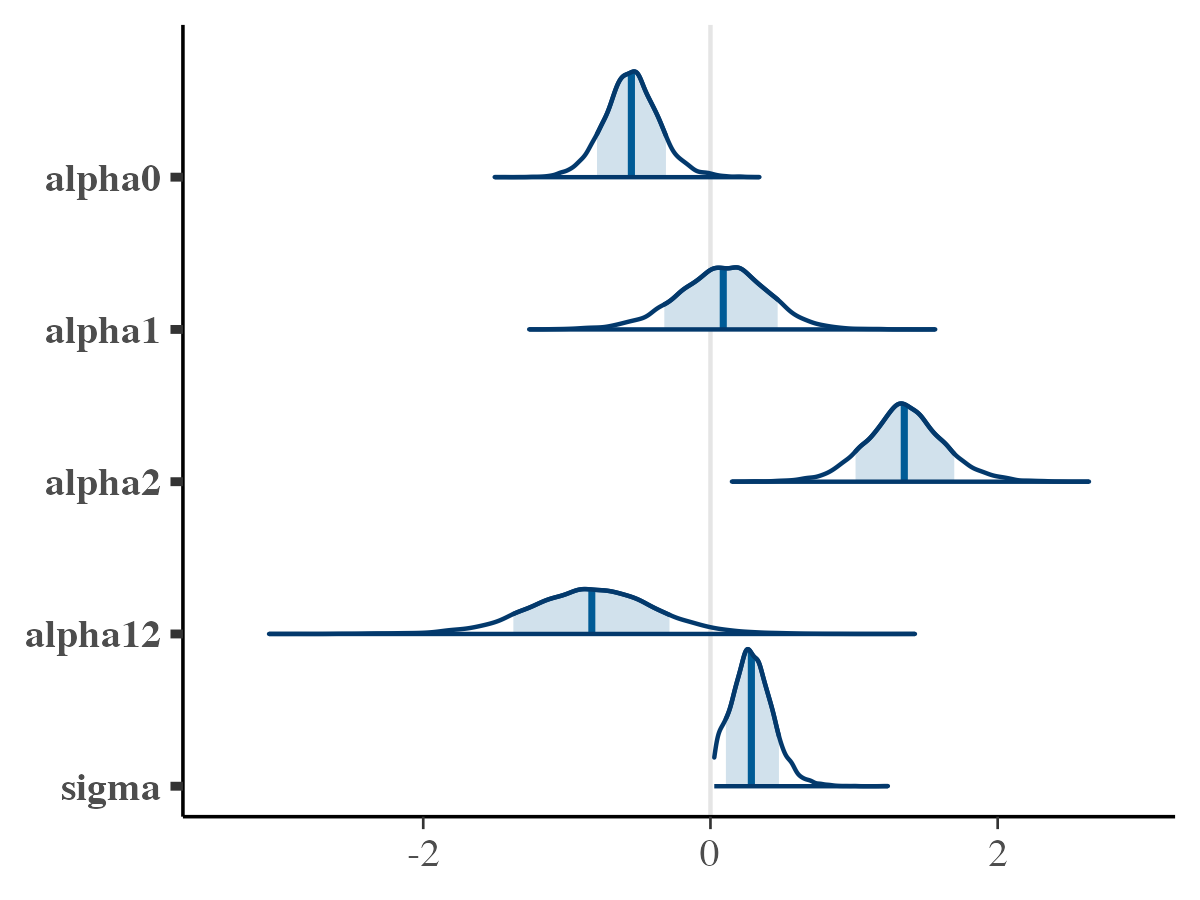
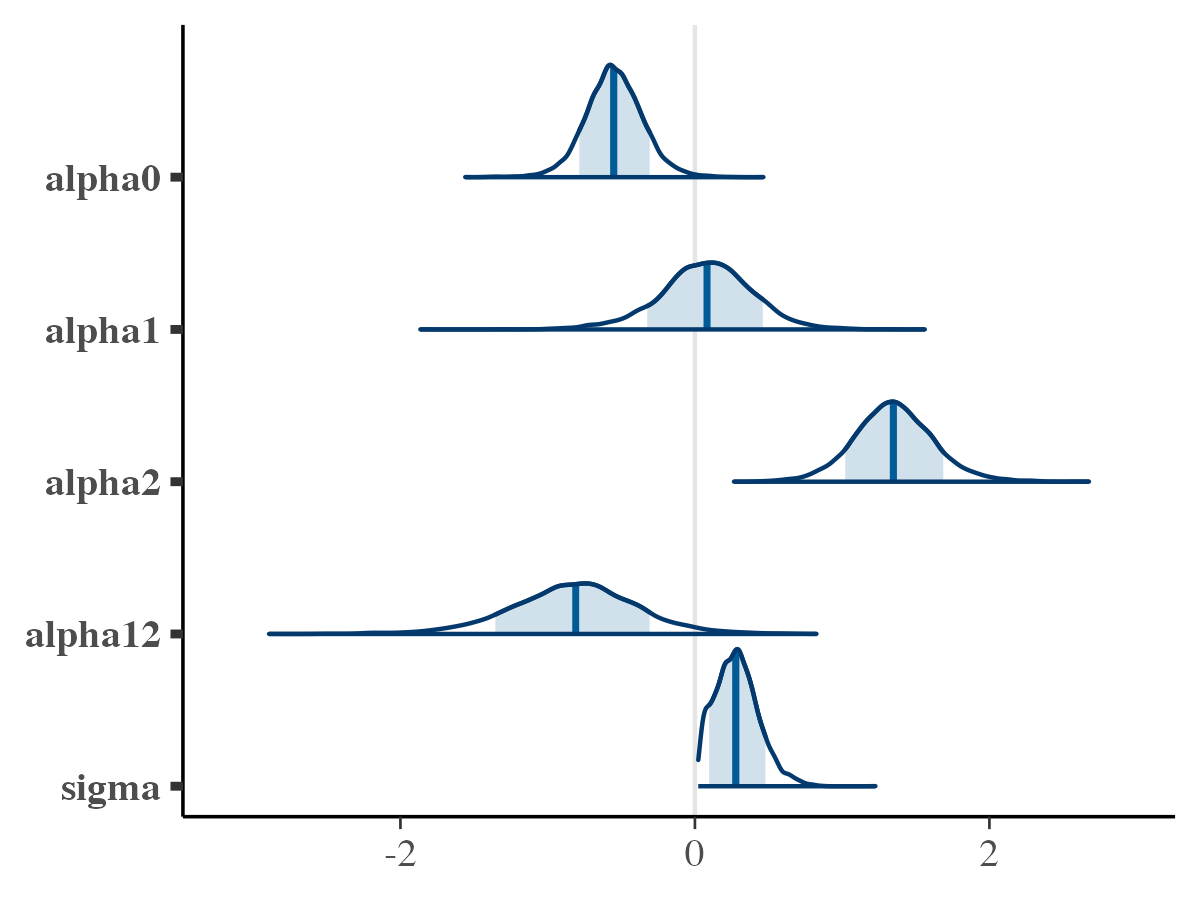
deploy: 300dae4b465163e6de4511c181b0e5b03d8d91df

diff --git a/reference/juliaBUGS.html b/reference/juliaBUGS.html
@@ -3,11 +3,11 @@
 specified in Julia or in BUGS syntax. It compiles the model, converts data,
 sets sampler parameters, and returns posterior samples in various formats. The setup
 for the HMC sampler uses Not-U-Turn Sampler (NUTS) with the target acceptance probability
-(\(\delta\)=0.8) for step size adaptation."><meta property="og:description" content="Executes a Hamiltonian Monte Carlo (HMC) sampler in Julia from R, using a model
+δ=0.8) for step size adaptation."><meta property="og:description" content="Executes a Hamiltonian Monte Carlo (HMC) sampler in Julia from R, using a model
 specified in Julia or in BUGS syntax. It compiles the model, converts data,
 sets sampler parameters, and returns posterior samples in various formats. The setup
 for the HMC sampler uses Not-U-Turn Sampler (NUTS) with the target acceptance probability
-(\(\delta\)=0.8) for step size adaptation."><meta property="og:image" content="https://mateusmaiads.github.io/rjuliabugs/logo.png"></head><body>
+δ=0.8) for step size adaptation."><meta property="og:image" content="https://mateusmaiads.github.io/rjuliabugs/logo.png"></head><body>
     <a href="#main" class="visually-hidden-focusable">Skip to contents</a>
 
 
@@ -49,7 +49,7 @@ for the HMC sampler uses Not-U-Turn Sampler (NUTS) with the target acceptance pr
 specified in Julia or in BUGS syntax. It compiles the model, converts data,
 sets sampler parameters, and returns posterior samples in various formats. The setup
 for the HMC sampler uses Not-U-Turn Sampler (NUTS) with the target acceptance probability
-(\(\delta\)=0.8) for step size adaptation.</p>
+δ=0.8) for step size adaptation.</p>
     </div>
 
     <div class="section level2">
@@ -89,6 +89,11 @@ for the HMC sampler uses Not-U-Turn Sampler (NUTS) with the target acceptance pr
 <dd><p>Character vector with the names of model parameters to extract from the sampler output.</p></dd>
 
 
+<dt id="arg-initializations">initializations<a class="anchor" aria-label="anchor" href="#arg-initializations"></a></dt>
+<dd><p>A named list of parameter names for which you may wish to set corresponding initial values for the sampler.
+The default is <code>NULL</code>, which means no default initial values are used.</p></dd>
+
+
 <dt id="arg-name">name<a class="anchor" aria-label="anchor" href="#arg-name"></a></dt>
 <dd><p>Character. Name for the sampler object created in Julia (must be a valid Julia variable name).</p></dd>
 
@@ -98,11 +103,11 @@ for the HMC sampler uses Not-U-Turn Sampler (NUTS) with the target acceptance pr
 
 
 <dt id="arg-n-warmup">n_warmup<a class="anchor" aria-label="anchor" href="#arg-n-warmup"></a></dt>
-<dd><p>Integer. Number of iterations used warm-up or tuning (e.g., adaption steps in NUTS). Default is `floor(n_iter / 2)`.</p></dd>
+<dd><p>Integer. Number of iterations used warm-up or tuning (e.g., adaption steps in NUTS). Default is <code>floor(n_iter / 2)</code>.</p></dd>
 
 
 <dt id="arg-n-discard">n_discard<a class="anchor" aria-label="anchor" href="#arg-n-discard"></a></dt>
-<dd><p>Integer. Number of initial samples to be completely discarded. Default is `n_warmup`, i.e: discard all the iterations used as adaptation steps.</p></dd>
+<dd><p>Integer. Number of initial samples to be completely discarded. Default is <code>n_warmup</code>, i.e: discard all the iterations used as adaptation steps.</p></dd>
 
 
 <dt id="arg-n-thin">n_thin<a class="anchor" aria-label="anchor" href="#arg-n-thin"></a></dt>
@@ -114,69 +119,69 @@ for the HMC sampler uses Not-U-Turn Sampler (NUTS) with the target acceptance pr
 
 
 <dt id="arg-use-parallel">use_parallel<a class="anchor" aria-label="anchor" href="#arg-use-parallel"></a></dt>
-<dd><p>Logical. Whether to use `AbstractMCMC.MCMCThreads()` for parallel sampling. Default is `TRUE`.</p></dd>
+<dd><p>Logical. Whether to use <code>AbstractMCMC.MCMCThreads()</code> for parallel sampling. Default is <code>TRUE</code>.</p></dd>
 
 
 <dt id="arg-posterior-type">posterior_type<a class="anchor" aria-label="anchor" href="#arg-posterior-type"></a></dt>
-<dd><p>Character. Format of the posterior samples. One of `"array"`, `"rvar"`, `"mcmc"`, or `"draws"`. Default is `"array"`.</p></dd>
+<dd><p>Character. Format of the posterior samples. One of <code>"array"</code>, <code>"rvar"</code>, <code>"mcmc"</code>, or <code>"draws"</code>. Default is <code>"array"</code>.</p></dd>
 
 
 <dt id="arg-force-setup-juliabugs">force_setup_juliaBUGS<a class="anchor" aria-label="anchor" href="#arg-force-setup-juliabugs"></a></dt>
-<dd><p>Logical. If `TRUE`, forces reinitialization of the Julia environment via `setup_juliaBUGS()`. Default is `FALSE`.</p></dd>
+<dd><p>Logical. If <code>TRUE</code>, forces reinitialization of the Julia environment via <code><a href="setup_juliaBUGS.html">setup_juliaBUGS()</a></code>. Default is <code>FALSE</code>.</p></dd>
 
 
 <dt id="arg-control">control<a class="anchor" aria-label="anchor" href="#arg-control"></a></dt>
-<dd><p>Optional list of control parameters. Supported entries:</p><dl><dt>`data_convert_int`</dt>
-<dd><p>Logical. If `TRUE`, coerces numeric values to integers when possible. Default is `TRUE`.</p></dd>
+<dd><p>Optional list of control parameters. Supported entries:</p><dl><dt><code>data_convert_int</code></dt>
+<dd><p>Logical. If <code>TRUE</code>, coerces numeric values to integers when possible. Default is <code>TRUE</code>.</p></dd>
 
-  <dt>`convert_var_name`</dt>
-<dd><p>Logical. If `TRUE`, automatically renames variables in the BUGS model. Default is `FALSE`.</p></dd>
+<dt><code>convert_var_name</code></dt>
+<dd><p>Logical. If <code>TRUE</code>, automatically renames variables in the BUGS model. Default is <code>FALSE</code>.</p></dd>
 
-  <dt>`julia_model`</dt>
-<dd><p>Logical. If `TRUE`, assumes the model is already in Julia format. Default is `FALSE`.</p></dd>
+<dt><code>julia_model</code></dt>
+<dd><p>Logical. If <code>TRUE</code>, assumes the model is already in Julia format. Default is <code>FALSE</code>.</p></dd>
 
 
 </dl></dd>
 
 
 <dt id="arg--">...<a class="anchor" aria-label="anchor" href="#arg--"></a></dt>
-<dd><p>Additional arguments passed to `setup_juliaBUGS()`.</p></dd>
+<dd><p>Additional arguments passed to <code><a href="setup_juliaBUGS.html">setup_juliaBUGS()</a></code>.</p></dd>
 
 </dl></div>
     <div class="section level2">
     <h2 id="value">Value<a class="anchor" aria-label="anchor" href="#value"></a></h2>
-    <p>An object of class `"rjuliabugs"` containing:</p><dl><dt>params</dt>
-<dd><p>Posterior samples, in the format specified by `posterior_type`.</p></dd>
+    <p>An object of class <code>"rjuliabugs"</code> containing:</p><dl><dt>params</dt>
+<dd><p>Posterior samples, in the format specified by <code>posterior_type</code>.</p></dd>
 
-  <dt>name</dt>
+<dt>name</dt>
 <dd><p>Character string identifying the Julia sampler object.</p></dd>
 
-  <dt>sampler</dt>
-<dd><p>Sampler object returned by `AbstractMCMC.sample`.</p></dd>
+<dt>sampler</dt>
+<dd><p>Sampler object returned by <code>AbstractMCMC.sample</code>.</p></dd>
 
-  <dt>n_threads</dt>
+<dt>n_threads</dt>
 <dd><p>Number of Julia threads detected.</p></dd>
 
-  <dt>mcmc</dt>
+<dt>mcmc</dt>
 <dd><p>List of MCMC configuration parameters.</p></dd>
 
-  <dt>control</dt>
+<dt>control</dt>
 <dd><p>Control options used in the sampler setup.</p></dd>
 
 
 </dl></div>
     <div class="section level2">
     <h2 id="details">Details<a class="anchor" aria-label="anchor" href="#details"></a></h2>
-    <p>This function relies on Julia packages `LogDensityProblems`, `AdvancedHMC`, and `AbstractMCMC`.
-Gradients are computed via `ReverseDiff`. The model is compiled before sampling.</p>
-<p>The `posterior_type` argument determines the return format:</p><ul><li><p>`"array"`: 3D numeric array (iterations × chains × parameters).</p></li>
-<li><p>`"rvar"`: `posterior::rvar` object.</p></li>
-<li><p>`"mcmc"`: `coda::mcmc` (single chain) or `mcmc.list` (multiple chains).</p></li>
-<li><p>`"draws"`: `posterior::draws_array`.</p></li>
+    <p>This function relies on Julia packages <code>LogDensityProblems</code>, <code>AdvancedHMC</code>, and <code>AbstractMCMC</code>.
+Gradients are computed via <code>ReverseDiff</code>. The model is compiled before sampling.</p>
+<p>The <code>posterior_type</code> argument determines the return format:</p><ul><li><p><code>"array"</code>: 3D numeric array (iterations × chains × parameters).</p></li>
+<li><p><code>"rvar"</code>: <code><a href="https://mc-stan.org/posterior/reference/rvar.html" class="external-link">posterior::rvar</a></code> object.</p></li>
+<li><p><code>"mcmc"</code>: <code><a href="https://rdrr.io/pkg/coda/man/mcmc.html" class="external-link">coda::mcmc</a></code> (single chain) or <code>mcmc.list</code> (multiple chains).</p></li>
+<li><p><code>"draws"</code>: <code><a href="https://mc-stan.org/posterior/reference/draws_array.html" class="external-link">posterior::draws_array</a></code>.</p></li>
 </ul></div>
     <div class="section level2">
     <h2 id="note">Note<a class="anchor" aria-label="anchor" href="#note"></a></h2>
-    <p>You must call `setup_juliaBUGS()` at least once before using this function.
+    <p>You must call <code><a href="setup_juliaBUGS.html">setup_juliaBUGS()</a></code> at least once before using this function.
 If parallel sampling is requested but only one Julia thread is available,
 a warning is issued and sampling will run serially.</p>
     </div>

diff --git a/articles/rjuliabugs.html b/articles/rjuliabugs.html
@@ -256,17 +256,17 @@ through <code>summary</code> function</p>
 <span><span class="co">#&gt; </span></span>
 <span><span class="co">#&gt; Summary Statistics:</span></span>
 <span><span class="co">#&gt; </span></span>
-<span><span class="co">#&gt;  parameters      mean      std      mcse ess_bulk ess_tail  rhat ess_per_sec</span></span>
-<span><span class="co">#&gt;         tau 50.159335 145.0744 15.456188      293      146 1.016          NA</span></span>
-<span><span class="co">#&gt;     alpha12 -0.828159   0.4434  0.008390     2755     4439 1.001          NA</span></span>
-<span><span class="co">#&gt;      alpha2  1.353300   0.2772  0.005020     3025     3852 1.002          NA</span></span>
-<span><span class="co">#&gt;      alpha1  0.080401   0.3152  0.006335     2468     4290 1.002          NA</span></span>
-<span><span class="co">#&gt;      alpha0 -0.548857   0.1944  0.003617     2885     3588 1.001          NA</span></span>
-<span><span class="co">#&gt;        b[1] -0.203235   0.2688  0.006624     1736     3583 1.003          NA</span></span>
-<span><span class="co">#&gt;        b[2]  0.004103   0.2212  0.002931     5805     4637 1.005          NA</span></span>
-<span><span class="co">#&gt;        b[3] -0.206592   0.2394  0.006092     1603     4283 1.004          NA</span></span>
-<span><span class="co">#&gt;        b[4]  0.278762   0.2608  0.007187     1299     4351 1.003          NA</span></span>
-<span><span class="co">#&gt;        b[5]  0.118124   0.2394  0.003791     4088     5359 1.002          NA</span></span>
+<span><span class="co">#&gt;  parameters      mean      std     mcse ess_bulk ess_tail  rhat ess_per_sec</span></span>
+<span><span class="co">#&gt;         tau 50.585398 125.6022 7.539190    307.4    362.9 1.020          NA</span></span>
+<span><span class="co">#&gt;     alpha12 -0.821935   0.4299 0.007597   3209.0   3998.0 1.001          NA</span></span>
+<span><span class="co">#&gt;      alpha2  1.352338   0.2718 0.004754   3310.9   3698.2 1.001          NA</span></span>
+<span><span class="co">#&gt;      alpha1  0.075395   0.3155 0.005529   3229.3   3713.4 1.000          NA</span></span>
+<span><span class="co">#&gt;      alpha0 -0.548363   0.1956 0.003479   3154.0   3814.0 1.001          NA</span></span>
+<span><span class="co">#&gt;        b[1] -0.197088   0.2609 0.006644   1672.4   3700.6 1.003          NA</span></span>
+<span><span class="co">#&gt;        b[2]  0.006057   0.2210 0.003004   5594.7   4312.5 1.004          NA</span></span>
+<span><span class="co">#&gt;        b[3] -0.200749   0.2352 0.005926   1659.3   3970.2 1.004          NA</span></span>
+<span><span class="co">#&gt;        b[4]  0.271324   0.2618 0.008595    861.0   3604.9 1.006          NA</span></span>
+<span><span class="co">#&gt;        b[5]  0.114540   0.2339 0.003804   4052.0   3936.0 1.003          NA</span></span>
 <span><span class="co">#&gt;          ...</span></span>
 <span><span class="co">#&gt;   17 rows omitted</span></span></code></pre></div>
 <p>If we wish to obtain the summary statistics for each saved parameter,
@@ -377,7 +377,7 @@ package:</p>
 <span></span>
 <span><span class="co"># Example: effective sample size</span></span>
 <span><span class="fu">posterior</span><span class="fu">::</span><span class="fu"><a href="https://mc-stan.org/posterior/reference/ess_basic.html" class="external-link">ess_basic</a></span><span class="op">(</span><span class="va">posterior</span><span class="op">$</span><span class="va">params</span><span class="op">[</span>,,<span class="st">"alpha0"</span><span class="op">]</span><span class="op">)</span></span>
-<span><span class="co">#&gt; [1] 2890.269</span></span></code></pre></div>
+<span><span class="co">#&gt; [1] 3159.761</span></span></code></pre></div>
 </div>
 <div class="section level2">
 <h2 id="saving-and-loading-the-rjuliabugs-model">Saving and loading the <code>rjuliabugs</code> model<a class="anchor" aria-label="anchor" href="#saving-and-loading-the-rjuliabugs-model"></a>
